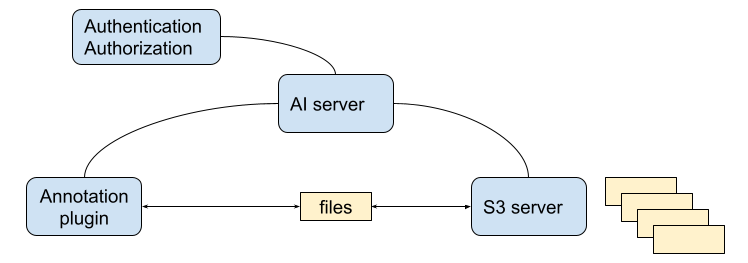
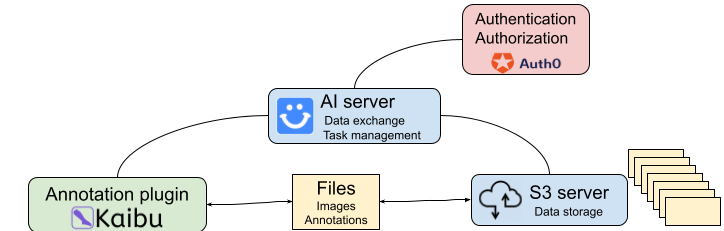
improve the docs (#2)
* updated schematic

* work on download script

* Update imjoy-ai-server-download-dataset.py

* Update imjoy-ai-server-download-dataset.py

* add information about how to distribute plugins

* correct if condition for result check

diff --git a/utils/imjoy-ai-server-download-dataset.py b/utils/imjoy-ai-server-download-dataset.py
@@ -18,11 +18,10 @@ BASE_URL = "https://api.imjoy.io"
 #  * Login as an admin user and click the "Connection Token" menu item to copy the token string
 TOKEN = "PASTE YOUR TOKEN HERE"
 
-# Folder contaning the data to be uploaded (organized according to our specifications)
-#  For the demo data, this is the folder "segmentation-annotation"
-DATASET_DIR = "demo-annotate-nuclei"
+# Folder where data should be stored
+SAVE_DIR = "PASTE-PATH-TO-SAVE-DATA"
 
-# This is the task which you want to upload new samples to
+# This is the task which which you want to download
 TASK_ID = "demo-annotate-nuclei"
 
 
@@ -33,18 +32,18 @@ response = requests.get(
     BASE_URL + "/tasks", headers={"Authorization": f"Bearer {TOKEN}"}
 )
 response_obj = response.json()
+
 assert (
     response_obj["success"] == True
 ), f"Failed to requesting URL for upload, error: {response_obj['error']}"
 tasks = response_obj["result"]
 
-
 assert (
     TASK_ID in tasks
 ), f"Task {TASK_ID} not found, must be one of: {list(tasks.keys())}"
 
-
-os.makedirs(DATASET_DIR, exist_ok=True)
+# Create folder to save data if does not exist
+os.makedirs(SAVE_DIR, exist_ok=True)
 
 # downloading samples
 count = 0
@@ -57,6 +56,7 @@ assert response_obj["success"] == True, "Failed to get samples"
 
 all_samples = response_obj["result"]
 chunk_size = 1024 * 100
+
 for sample_id in all_samples:
     count += 1
     print(f"===> ({count}/{len(all_samples)}) Downloading {sample_id} ...")
@@ -72,12 +72,14 @@ for sample_id in all_samples:
         print("Failed to download "+response_obj["error"])
         continue
     result = response_obj["result"]
-    if result.get("input_files"):
+    if not result.get("input_files"):
         continue
-    os.makedirs(os.path.join(DATASET_DIR, sample_id), exist_ok=True)
-    # upload input files
+    os.makedirs(os.path.join(SAVE_DIR, sample_id), exist_ok=True)
+    print(f'    Saving to {os.path.join(SAVE_DIR, sample_id)}')
+    
+    # Download input files
     for file_name in result["input_files"]:
-        input_file = os.path.join(DATASET_DIR, sample_id, file_name)
+        input_file = os.path.join(SAVE_DIR, sample_id, file_name)
         download_url = result["input_files"][file_name]
         response = requests.get(download_url, stream=True)
         if response.status_code == 200:
@@ -87,14 +89,14 @@ for sample_id in all_samples:
         else:
             print(f"failed to download file: {file_name}, {response.reason}: {response.text}")
         
-    # upload target files
+    # Download target files
     for file_name in result["target_files"]:
         target_versions = result["target_files"][file_name]
         if len(target_versions) <= 0:
             continue
         for version in target_versions:
-            os.makedirs(os.path.join(DATASET_DIR, sample_id, version), exist_ok=True)
-            target_file = os.path.join(DATASET_DIR, sample_id, version, file_name)
+            os.makedirs(os.path.join(SAVE_DIR, sample_id, version), exist_ok=True)
+            target_file = os.path.join(SAVE_DIR, sample_id, version, file_name)
             download_url = target_versions[version]
             response = requests.get(download_url, stream=True)
             if response.status_code == 200:

diff --git a/docs/task-manager.md b/docs/task-manager.md
@@ -134,3 +134,25 @@ const BASE_URL = 'https://api.imjoy.io'
 - `BASE_URL` is the URL of the task management server, here our demo server.
 
 Kaibu permits further customization of this plugin, more information can be found in the dedicated section for the client developer. 
+
+### Distributing of annotation plugins
+
+ImJoy provides the possiblity to distribute a plugin wiht an URL. This URL references the actual plugin that 
+should be installed, and further optional information detailing how the plugin should be installed. 
+
+As an example the URL shown below is for the Nuclei-Annotation plugin
+
+``` url
+https://imjoy.io/#/app?w=cloud-annotation&plugin=imjoy-team/imjoy-cloud-annotation:Nuclei-Cloud-Annotator@stable&upgrade=1
+```
+
+ImJoy provides a lot of flexibility for how to host your plugin codes. 
+
+1. **Any website**, including GitHub, Gist or Dropbox. For testing, we recommend using GitHub Gist.
+2. **ImJoy plugin repository**. Any GitHub respository can act as a plugin repository, and requires only the addition of one file.  provides the most flexibility and is our recommended way when you have multipled plugins.
+
+A **detailed description** for how to construct this urls and where plugin code can be hosted, can be found in the ImJoy documentation [**here**](https://imjoy.io/docs/#/development?id=generating-a-plugin-url-for-sharing)
+
+## Retrieving data
+
+Once a data-set is annotated, it can be retrieved from the storage server with the provided Python script (`utils\imjoy-ai-server-download-dataset.py`).

diff --git a/docs/home.md b/docs/home.md
@@ -29,4 +29,4 @@ to get some understanding of what's behind the cloud annotation tool.
 
 1. **Data annotation** is done with a customized ImJoy plugin using [Kaibu](https://kaibu.org/#/app), which can be provided to the end user as a simple URL.
 2. Data can be **stored** locally or on remote (S3) server, and only the currently annotated imaged are downloaded locally. New annotations results will be sent back to the storage solution.
-3. **Communication** between Kaibu and the storage solution is achieved by our  ImJoy AI Server. This server provides a set of API functions allowing to not only retrieve the samples, but also manages the annotation tasks and monitors their progress. Lastly, it managages multi-user access and thus allows collaborative annotations. If you want to know more, please consult the dedicated repository for how to setup these servers (TODO).
+3. **Communication** between Kaibu and the storage solution is achieved by the ImJoy AI Server. This server provides a set of API functions allowing to not only retrieve the samples, but also manages the annotation tasks and monitors their progress. Lastly, it permits multi-user access by authentification. In combination with the task management, it allows collaborative annotations. If you want to know more, please consult the dedicated repository for how to setup these servers (TODO).
